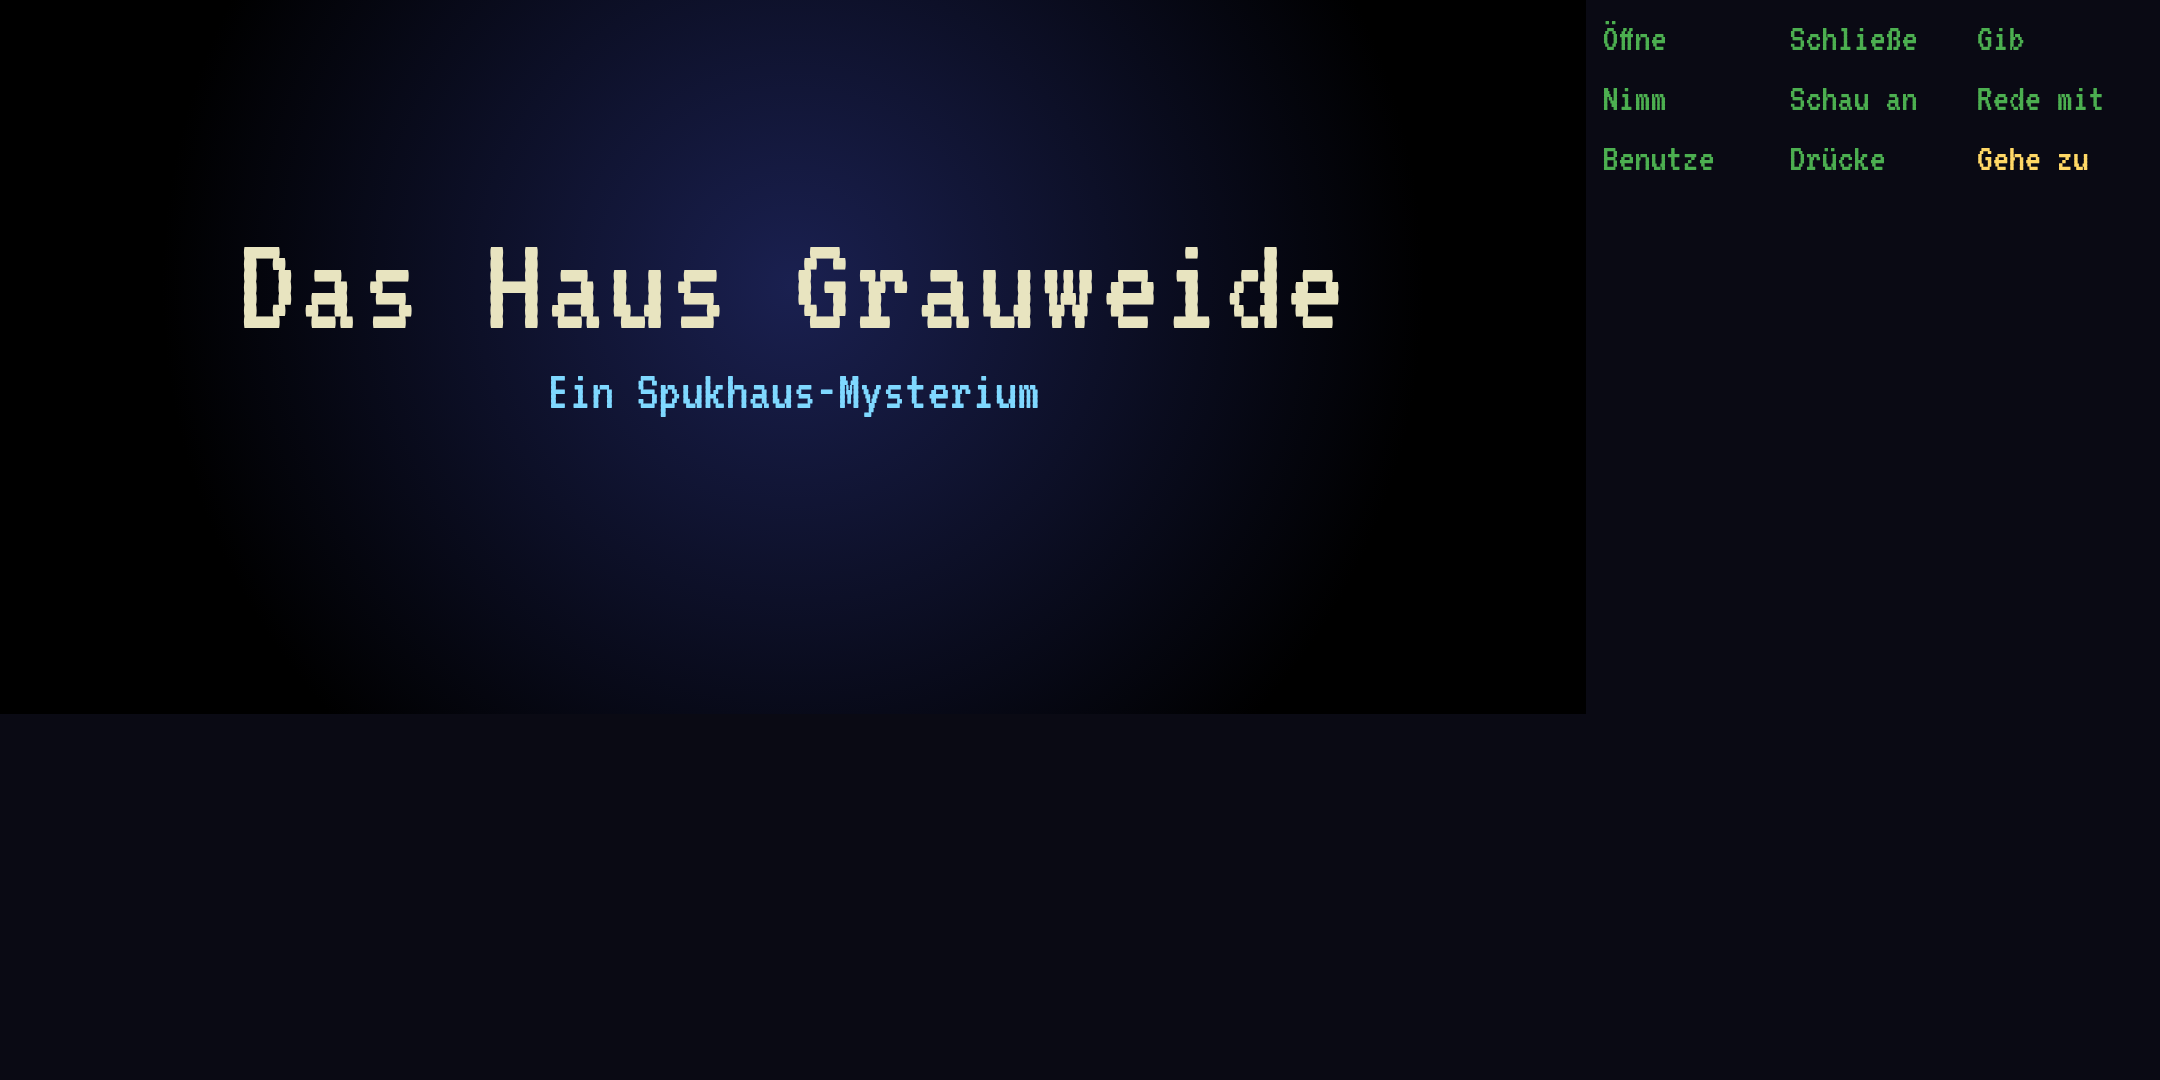
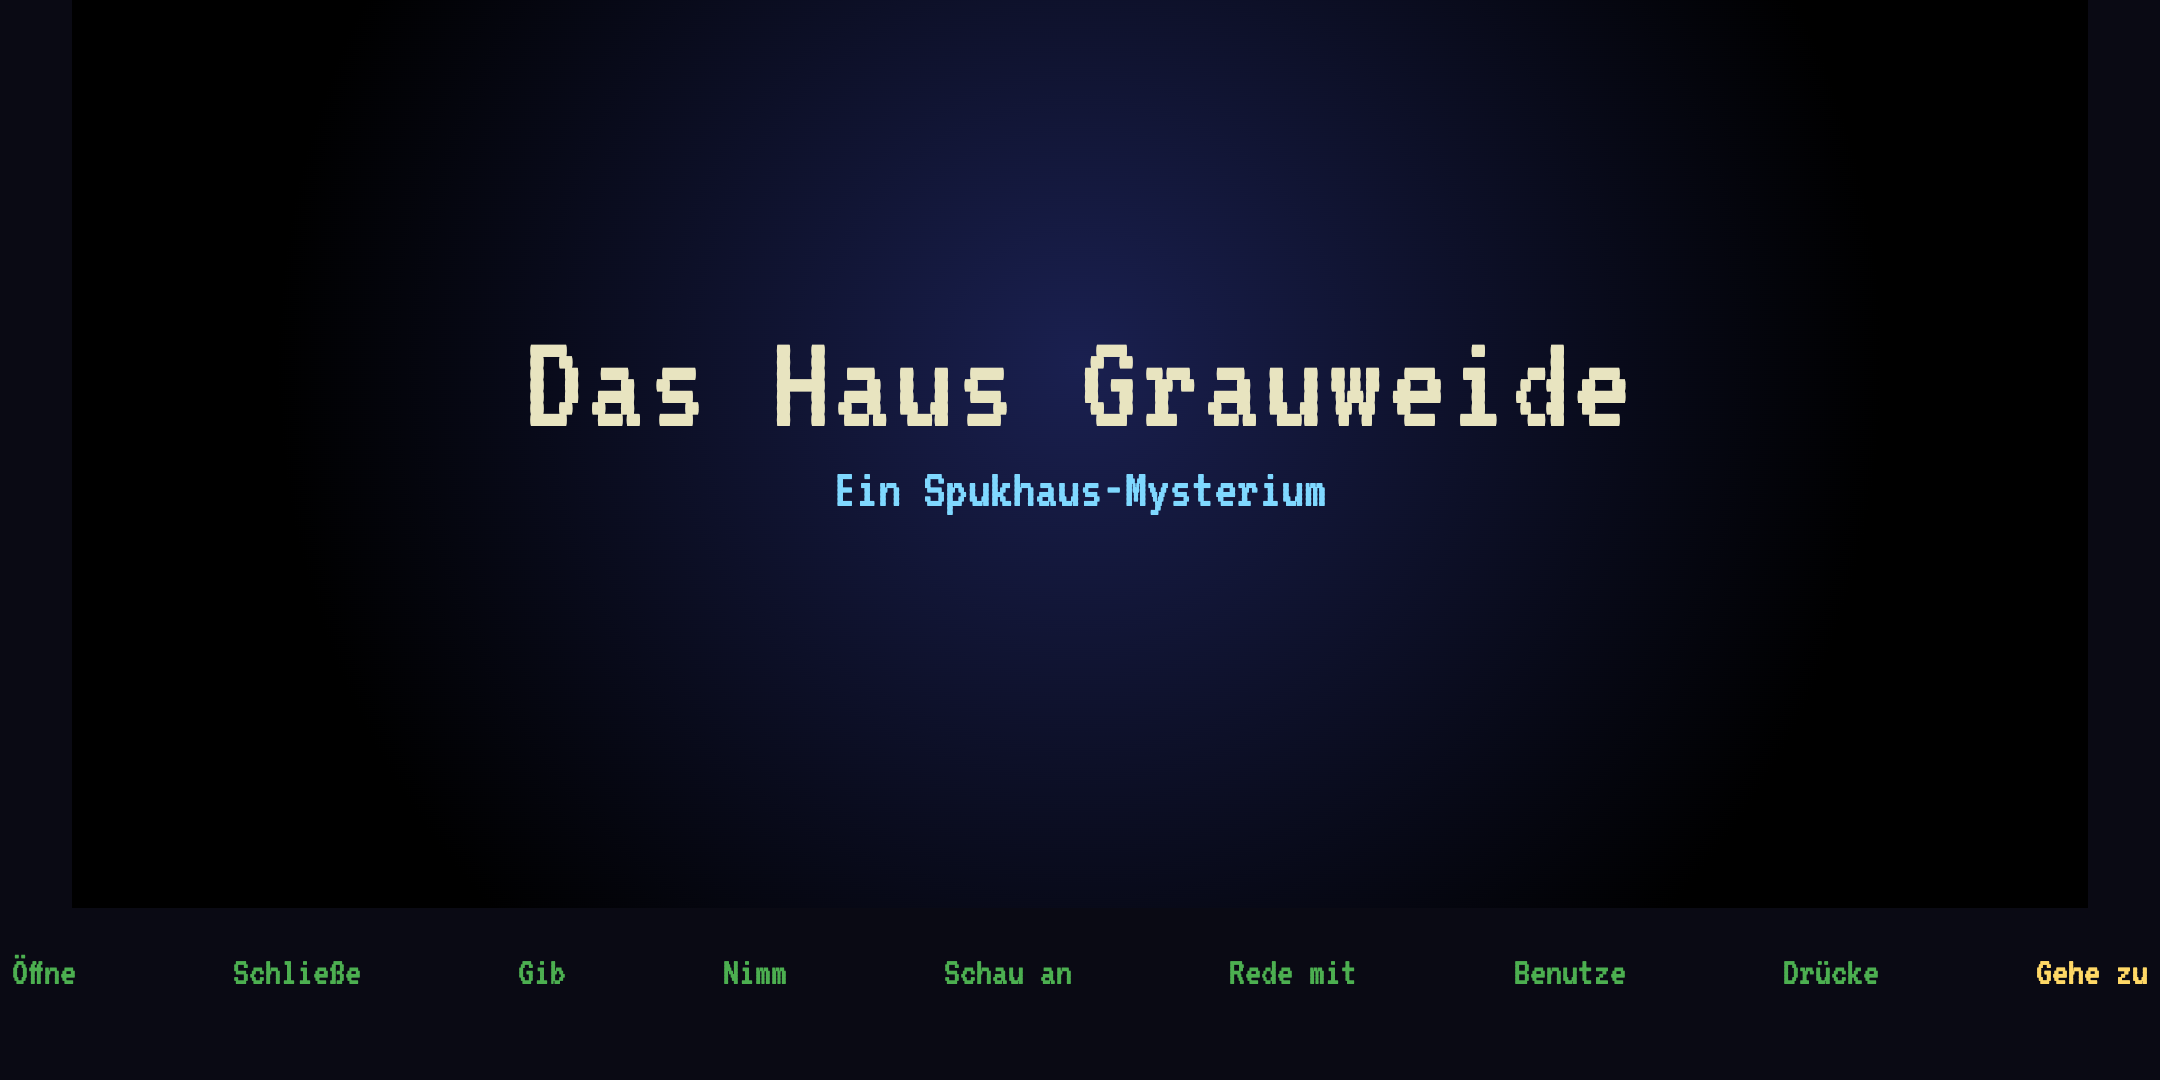
Android: versionCode 2; new Google Play screenshots (de/en) and Play short descriptions

diff --git a/store/listing.md b/store/listing.md
@@ -10,6 +10,8 @@ Kategorie: Spiele → Adventure (zweite: Spiele → Rätsel) · Preis: kostenlos
 
 **Untertitel (max. 30):** Ein Spukhaus-Mysterium
 
+**Google Play Kurzbeschreibung (max. 80):** Retro-Point-and-Click: Sechs Freunde lüften das Geheimnis eines alten Hauses.
+
 **Werbetext (max. 170):**
 Lindenbrück, Herbst 1987: Sechs Freunde, ein verlassenes Haus und eine Uhr, die seit Jahren stillsteht. Ein Retro-Adventure wie früher.
 
@@ -36,6 +38,10 @@ Adventure,Point and Click,Retro,Pixel,Rätsel,Spukhaus,Mystery,Krimi,80er,Klassi
 
 **Subtitle (max. 30):** A Haunted House Mystery
 
+**Google Play short description (max. 80):** Retro point-and-click: six friends uncover the secret of an abandoned house.
+
+**Google Play title:** Grauweide House
+
 **Promotional text (max. 170):**
 Lindenbrück, autumn 1987: six friends, an abandoned house and a clock that has stood still for years. A retro adventure like they used to make.
 
@@ -56,7 +62,14 @@ The game is free and supported by ads. A one-time purchase ("Remove Ads") lets y
 **Keywords (max. 100):**
 adventure,point and click,retro,pixel art,puzzle,haunted house,mystery,80s,classic,friends,detective
 
-## Screenshots (iPhone 6,9″, 2868×1320)
+## Screenshots
+
+iPhone 6,9″ (2868×1320):
 
 - Deutsch: `store/screenshots/iphone-6.9-0-title.png` … `iphone-6.9-5-treehouse.png`
 - Englisch: `store/screenshots/iphone-6.9-en-0-title.png` … `iphone-6.9-en-5-treehouse.png`
+
+Google Play (2160×1080):
+
+- Deutsch: `store/screenshots/play-phone-0-title.png` … `play-phone-5-treehouse.png`
+- Englisch: `store/screenshots/play-phone-en-0-title.png` … `play-phone-en-5-treehouse.png`
